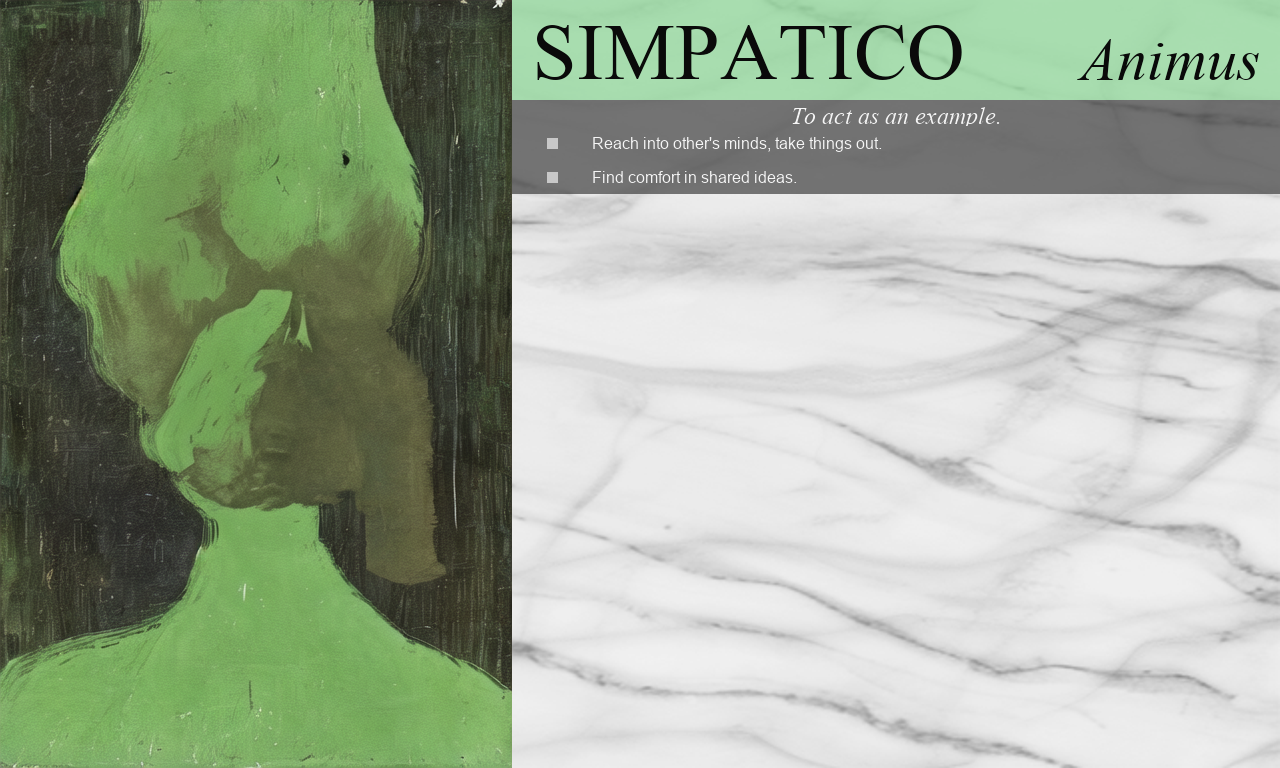
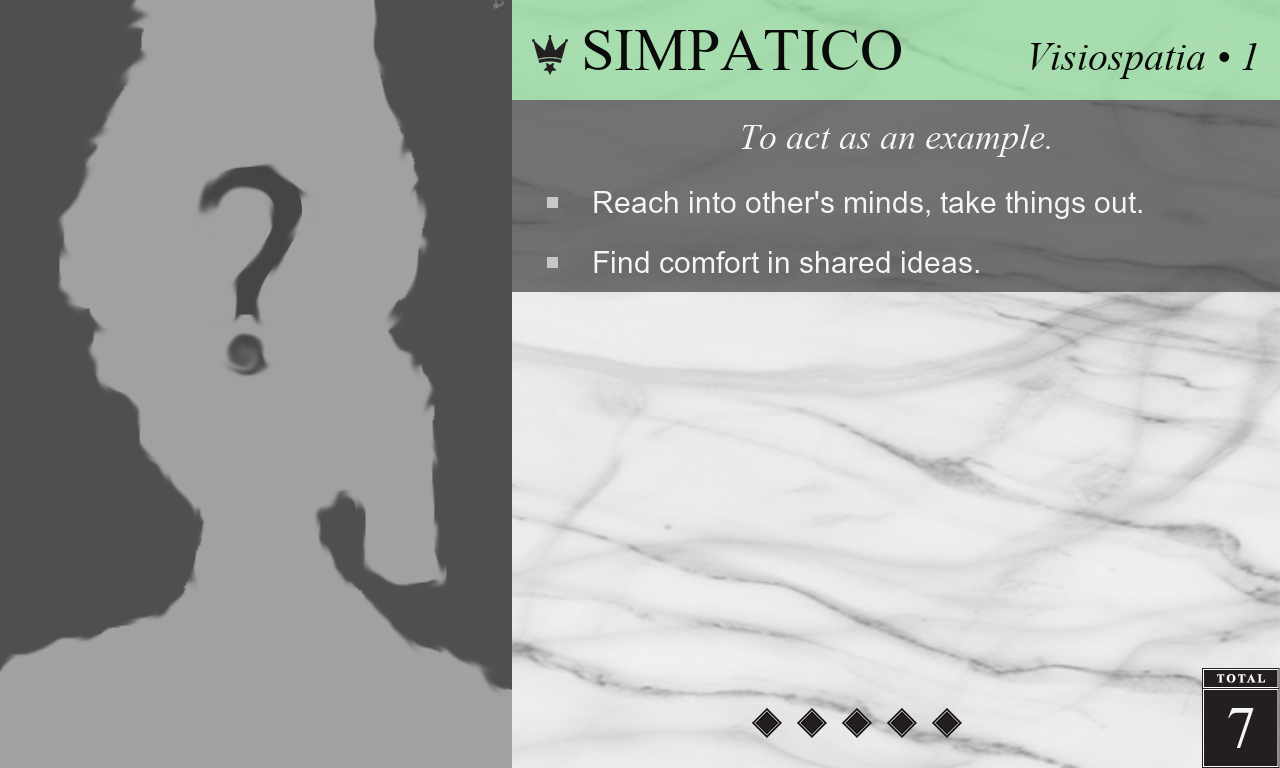
Finished top half of character pane, next need the vox sorter.

diff --git a/window.py b/window.py
@@ -19,8 +19,10 @@ def init_tk_window(min_size=(800, 912)):
 
     return window_frame
 
+
 ROOT = init_tk_window()
 INPUT_FONT = ("Arial", 10)
+INPUT_FONT_EXPANDED = ("Arial", 18, "bold")
 FILEPATH = StringVar(value="imagefiles/defaultvox.png")
 ATTRVAR = IntVar(value=1)
 
@@ -118,12 +120,22 @@ def init_attribute_frame(parent, vox_attribute_var, column, row):
     subtract_button = Button(attribute_frame, text="-", command=subtract_1_attribute, width=1)
     subtract_button.grid(column=1, row=0)
 
-    attribute_value_display = Entry(attribute_frame, textvariable=ATTRVAR, font=('Arial', 10), width=2)
+    attribute_value_display = Entry(attribute_frame, textvariable=ATTRVAR, font=INPUT_FONT, width=2)
     attribute_value_display.config(state="readonly")
     attribute_value_display.grid(column=2, row=0, sticky="ew")
 
     add_button = Button(attribute_frame, text="+", command=add_1_attribute, width=1)
     add_button.grid(column=3, row=0)
+
+
+def init_name_frame(parent, char_name_variable):
+    name_frame = Frame(parent)
+    name_frame.grid(column=0, row=0, sticky="ew")
+
+    Label(name_frame, text="Character Name:").grid(column=0, row=0)
+    init_entry_widget(name_frame, char_name_variable, INPUT_FONT, column=1, row=0, sticky="w")
+
+    return name_frame
 
 
 def init_ranks_frame(parent, vox_ranks_var, vox_signature_var, column, row):
@@ -137,7 +149,7 @@ def init_ranks_frame(parent, vox_ranks_var, vox_signature_var, column, row):
     subtract_button = Button(ranks_frame, text="-", command=subtract_1_rank, width=1)
     subtract_button.grid(column=1, row=0)
 
-    attribute_value_display = Entry(ranks_frame, textvariable=vox_ranks_var, font=('Arial', 10), width=2)
+    attribute_value_display = Entry(ranks_frame, textvariable=vox_ranks_var, font=INPUT_FONT, width=2)
     attribute_value_display.config(state="readonly")
     attribute_value_display.grid(column=2, row=0, sticky="ew")
 
@@ -154,8 +166,27 @@ def init_checkbox(parent, variable, text, **kwargs):
 
 
 def init_dropdown(parent, variable, column, row):
-    dropdown_menu = OptionMenu(parent, variable, "Intellect", *vox.ATTR.keys())
+    dropdown_menu = OptionMenu(parent, variable, "Cerebra", *vox.ATTR.keys())
     dropdown_menu.grid(column=column, row=row)
+
+
+def init_attunement_widget(parent, attribute_name, attribute_var, **kwargs):
+    widget_frame = Frame(parent)
+    widget_frame.grid(**kwargs)
+
+    # Place the label
+    Label(widget_frame, text=attribute_name).grid(column=0, row=0, columnspan=2)
+
+    # Place the entry widget
+    attribute_entry = Entry(widget_frame, width=2, textvariable=attribute_var, font=INPUT_FONT_EXPANDED, justify="center")
+    attribute_entry.grid(column=0, row=1, columnspan=2)
+
+    # Place Buttons
+    subtract_button = Button(widget_frame, text="-", command=lambda: intvar_minus_1(attribute_var), width=1)
+    subtract_button.grid(column=0, row=2)
+
+    add_button = Button(widget_frame, text="+", command=lambda: intvar_plus_1(attribute_var), width=1)
+    add_button.grid(column=1, row=2)
 
 
 def init_entry_widget(parent, variable, font, **kwargs):
@@ -176,7 +207,7 @@ def init_file_select_pane(window):
 
     # Create the display entry for the filepath selector
 
-    file_select_entry = Entry(file_select_frame, textvariable=FILEPATH, font=('Arial', 10))
+    file_select_entry = Entry(file_select_frame, textvariable=FILEPATH, font=INPUT_FONT)
     file_select_entry.config(state="readonly")
     file_select_entry.grid(column=0, row=1, sticky="ew")
 
@@ -192,6 +223,21 @@ def init_file_select_pane(window):
     load_vox_button.grid(column=1, row=2)
 
     return file_select_frame, image_label, image
+
+
+def init_attunements_frame(parent, attunement_vars):
+    attunements_frame = Frame(parent)
+    attunements_frame.grid(column=0, row=1)
+
+    attunement_dict_keys = sorted(attunement_vars.keys())
+
+    place_in_column = 0
+
+    for each_key in attunement_dict_keys:
+        init_attunement_widget(attunements_frame, each_key, attunement_vars[each_key], column=place_in_column, row=0)
+        place_in_column += 1
+
+    return attunements_frame
 
 
 def init_output_pane(window):
@@ -215,10 +261,18 @@ def init_output_pane(window):
     return output_frame, image_label, image
 
 
-def init_parent_frame(window):
+def init_character_pane(window):
     """Creates an empty parent frame for the other content frames to occupy."""
     content_frame = Frame(window, padding=20)
     content_frame.grid(column=0, row=0, sticky="nsew")
+
+    return content_frame
+
+
+def init_vox_pane(window):
+    """Creates an empty parent frame for the other content frames to occupy."""
+    content_frame = Frame(window, padding=20)
+    content_frame.grid(column=1, row=0, sticky="nsew")
 
     content_frame.columnconfigure(0, weight=1)
     content_frame.columnconfigure(1, weight=1)
@@ -299,7 +353,7 @@ def load_vox():
 
 def select_new_filepath():
     """Selects a new filepath for the vox portrait."""
-    new_filepath = filedialog.askopenfilename(parent=VOXPANE.window, title="Select Vox portrait...")
+    new_filepath = filedialog.askopenfilename(parent=ROOT, title="Select Vox portrait...")
     if new_filepath == "":
         return
 
@@ -312,6 +366,7 @@ def select_new_filepath():
         messagebox.showwarning(title="Wrong File Size",
                                message="The selected image is too large. Please select a Vox portrait that is no larger than 512x768 pixels.")
 
+
 def update_loaded_portrait():
     """Updates the portrait selector by loading from the FILEPATH"""
 
@@ -321,13 +376,11 @@ def update_loaded_portrait():
 
 
 def add_1_attribute():
-    ATTRVAR.set(ATTRVAR.get() + 1)
+    intvar_plus_1(ATTRVAR)
 
 
 def subtract_1_attribute():
-    current_value = ATTRVAR.get()
-    if current_value > 0:
-        ATTRVAR.set(current_value - 1)
+    intvar_minus_1(ATTRVAR)
 
 
 def add_1_rank():
@@ -340,16 +393,46 @@ def subtract_1_rank():
         VOXPANE.vox_ranks.set(current_value - 1)
 
 
+def intvar_plus_1(variable):
+    """Adds 1 to the given intvar."""
+    variable.set(variable.get() + 1)
+
+
+def intvar_minus_1(variable):
+    """Subtracts 1 from the given intvar. Minimum result of 0."""
+    current_value = variable.get()
+    if current_value > 0:
+        variable.set(current_value - 1)
+
+
 def set_widget_text(text_widget, value):
     """Overwrites a tkinter text widget's contents with the passed value."""
     text_widget.delete(1.0, END)
     text_widget.insert(END, value)
 
 
+class CharacterPane:
+    def __init__(self):
+        self.parent_frame = init_character_pane(ROOT)
+
+        self.char_name_variable = StringVar()
+        self.name_frame = init_name_frame(self.parent_frame, self.char_name_variable)
+
+        self.attunement_variables = {"Cerebra": IntVar(value=0),
+                                     "Benedictum": IntVar(value=0),
+                                     "Myomesmer": IntVar(value=0),
+                                     "Psychoanima": IntVar(value=0),
+                                     "Visiospatia": IntVar(value=0),
+                                     "Endopulse": IntVar(value=0)}
+
+        self.attunements_frame = init_attunements_frame(self.parent_frame, self.attunement_variables)
+
+        # self.vox_table = VoxTable()
+
+
 class VoxPane:
     def __init__(self):
-        self.window = ROOT
-        self.parent_frame = init_parent_frame(self.window)
+        self.parent_frame = init_vox_pane(ROOT)
 
         self.left_frame, self.portrait_image_label, self.portrait_image = init_file_select_pane(self.parent_frame)
 
@@ -366,6 +449,7 @@ class VoxPane:
 
 
 VOXPANE = VoxPane()
+CHARPANE = CharacterPane()
 
 if __name__ == "__main__":
-    VOXPANE.window.mainloop()
+    ROOT.mainloop()

diff --git a/vox.py b/vox.py
@@ -3,12 +3,13 @@ from PIL import Image
 import visualizer
 
 # Vox Attributes
-ATTR = {"Intellect": ("Intellect", (60, 70, 100)),
-        "Psyche": ("Psyche", (100, 95, 128)),
-        "Physick": ("Physick", (130, 40, 50)),
-        "Skill": ("Skill", (210, 175, 75)),
-        "Animus": ("Animus", (140, 215, 150)),
+ATTR = {"Cerebra": ("Cerebra", (60, 70, 100)),
+        "Benedictum": ("Benedictum", (100, 95, 128)),
+        "Myomesmer": ("Myomesmer", (180, 60, 40)),
+        "Psychoanima": ("Psychoanima", (210, 175, 75)),
+        "Visiospatia": ("Visiospatia", (140, 215, 150)),
         "Endopulse": ("Endopulse", (220, 80, 175))}
+
 
 class Vox:
     """Gets a vox object from a set of variables."""
@@ -21,7 +22,6 @@ class Vox:
         self.actions = actions
 
         self.image_filepath = vox_filepath
-
 
     def get_card_image(self, attribute_value):
         """Builds and returns the image of the card."""
@@ -48,17 +48,28 @@ class Vox:
             card_image.alpha_composite(next_element, (512, y_offset))
             y_offset += next_element.height
 
-        # Calculate non-attribute or rank based bonuses (Just the +1 signature bonus for now)
-        if self.is_signature:
-            other_bonuses = 1
-        else:
-            other_bonuses = 0
-
         # Place the skill total bar
-        next_element = visualizer.get_skill_pip_image(attribute_value, self.ranks, other_bonuses)
+        next_element = visualizer.get_skill_pip_image(attribute_value, self.ranks, self.get_other_bonuses())
         card_image.alpha_composite(next_element, (512, 668))
 
         return card_image
+
+    def get_mini_popout_image(self, attribute_value):
+        popout_image = Image.new("RGBA", (512, 768), (0, 0, 0, 0))
+        popout_image.paste(Image.open(self.image_filepath))
+
+        popout_image.alpha_composite(visualizer.get_mini_title_field_image(self, attribute_value), (0, 668))
+
+        return popout_image
+
+    def get_other_bonuses(self):
+        """Calculate non-attribute or rank based bonuses (Just the +1 signature bonus for now)"""
+        other_bonuses = 0
+
+        if self.is_signature:
+            other_bonuses += 1
+
+        return other_bonuses
 
 
     def save_json(self, filepath):
@@ -88,12 +99,15 @@ def load_from_json(filepath):
 
     return loaded_vox
 
+
 if __name__ == "__main__":
-    new_vox = Vox("Simpatico", ATTR["Animus"], "To act as an example.", 5, True,
+    new_vox = Vox("Simpatico", ATTR["Visiospatia"], "To act as an example.", 5, True,
                   "Reach into other's minds, take things out.",
                   "Find comfort in shared ideas.",
-                  vox_filepath="imagefiles/examplevox.png")
+                  vox_filepath="imagefiles/defaultvox.png")
 
     new_image = new_vox.get_card_image(1)
-
     new_image.save("imagefiles/EXAMPLE.png", "PNG")
+
+    new_image = new_vox.get_mini_popout_image(1)
+    new_image.save("dev/EXAMPLEpopout.png", "PNG")

diff --git a/visualizer.py b/visualizer.py
@@ -91,6 +91,40 @@ def get_title_field_image(vox_title, vox_attribute_label, vox_color, vox_attribu
     return title_field_image
 
 
+def get_mini_title_field_image(vox, vox_attribute_bonus):
+    """Creates the Title field image for later compositing onto the mini version of the vox."""
+    title_field_image = Image.new("RGBA", (512, 100), (*vox.attribute[1], 180))
+    label_editor = ImageDraw.Draw(title_field_image)
+
+    # If it is a signature vox, add the icon
+    if vox.is_signature:
+        icon_image = Image.open("imagefiles/signature.png")
+        title_field_image.alpha_composite(icon_image, (20, 35))
+
+    # Draw the totalbox
+    title_field_image.paste(Image.open("imagefiles/totalbox.png"), (434, 0))
+
+    # Draw the vox title
+    label_editor.font = TITLE_FONT_REDUCED
+    vox_title_length = label_editor.textlength(vox.name.upper())
+    x_offset = 178
+    if vox.is_signature:
+        x_offset += 70
+
+    if vox_title_length + 158 < 512 or (vox_title_length + 78 < 512 and not vox.is_signature):
+        label_editor.text((x_offset, 60), vox.name.upper(), fill=TEXT_COLOR_DARK, anchor="ms")
+    else:
+        vox_goal_lines = chop_into_halves(vox.name)
+        label_editor.text((x_offset, 15), vox_goal_lines[0], fill=TEXT_COLOR_DARK, anchor="mt")
+        label_editor.text((x_offset, 55), vox_goal_lines[1], fill=TEXT_COLOR_DARK, anchor="mt")
+
+    skill_total = vox_attribute_bonus + vox.ranks + vox.get_other_bonuses()
+    label_editor.font = TITLE_FONT
+    label_editor.text((473, 80), str(skill_total), fill=TEXT_COLOR_LIGHT, anchor="ms")
+
+    return title_field_image
+
+
 def get_goal_field_image(vox_goal):
     goal_field_image = Image.new("RGBA", (768, 72), UNDERTEXT_COLOR)
     label_editor = ImageDraw.Draw(goal_field_image)

diff --git a/character.py b/character.py
@@ -1,0 +1,14 @@
+class Character:
+    def __init__(self, char_name, *voxes, **kwargs):
+        self.name = char_name
+        self.attunements = get_attunement_dict(**kwargs)
+        self.voxes = voxes
+
+
+def get_attunement_dict(cerebra=0, benedictum=0, myomesmer=0, psychoanima=0, visiospatia=0, endopulse=0):
+    return {"Cerebra": cerebra,
+            "Benedictum": benedictum,
+            "Myomesmer": myomesmer,
+            "Psychoanima": psychoanima,
+            "Visiospatia": visiospatia,
+            "Endopulse": endopulse}
